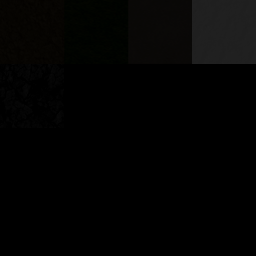
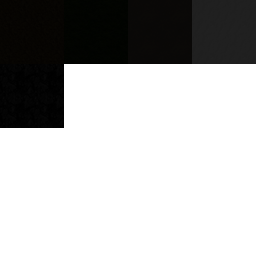
Разрешил проблему с границами между тайлами

diff --git a/client/src/app/services/three.js/terrain.service.ts b/client/src/app/services/three.js/terrain.service.ts
@@ -1,8 +1,8 @@
 import { CreateArray, VoidFunctionVar } from "@_datas/app";
 import { MapTerrains, TexturePaths } from "@_datas/dream-map";
 import { DreamMapTerrainName } from "@_datas/dream-map-objects";
-import { DreamCeilParts, DreamCeilSize, DreamDefHeight, DreamMapDefaultTextureQuality, DreamMapSize, DreamMaxHeight, DreamOutsideSize, DreamTerrain } from "@_datas/dream-map-settings";
-import { LightMapTextureName, MapTextureName, MaskNames, MaskTextureNamePreffix, NormalMapTextureName, TerrainColorDepth, TerrainDefines, TerrainFragmentShader, TerrainRepeat, TerrainUniforms, TerrainVertexShader } from "@_datas/three.js/shaders/terrain.shader";
+import { DreamCeilParts, DreamCeilSize, DreamDefHeight, DreamMapSize, DreamMaxHeight, DreamOutsideSize, DreamTerrain } from "@_datas/dream-map-settings";
+import { MapTextureName, MaskNames, MaskTextureNamePreffix, TerrainColorDepth, TerrainDefines, TerrainFragmentShader, TerrainRepeat, TerrainUniforms, TerrainVertexShader } from "@_datas/three.js/shaders/terrain.shader";
 import { AngleToRad, CheckInRange, MathRound } from "@_helpers/math";
 import { ArrayFind, ArrayForEach, ArraySome, ForCycle, MapCycle, XYForEach, XYMapEach } from "@_helpers/objects";
 import { CustomObject, CustomObjectKey } from "@_models/app";
@@ -11,8 +11,8 @@ import { ImageExtension } from "@_models/screen";
 import { Uniforms } from "@_models/three.js/base";
 import { ScreenService } from "@_services/screen.service";
 import { Injectable, OnDestroy } from "@angular/core";
-import { Observable, Subject, filter, forkJoin, map, mergeMap, of, takeUntil, tap, timer } from "rxjs";
-import { BackSide, CanvasTexture, DataTexture, Float32BufferAttribute, FrontSide, LinearEncoding, LinearFilter, Mesh, NearestFilter, NearestMipmapLinearFilter, NearestMipmapNearestFilter, PlaneGeometry, RGBFormat, RepeatWrapping, ShaderMaterial, Texture, TextureLoader, UniformsUtils } from "three";
+import { Observable, Subject, forkJoin, map, mergeMap, of, takeUntil, tap } from "rxjs";
+import { BackSide, CanvasTexture, DataTexture, Float32BufferAttribute, FrontSide, LinearEncoding, LinearFilter, LinearMipmapLinearFilter, Mesh, MirroredRepeatWrapping, PlaneGeometry, RGBFormat, ShaderMaterial, Texture, TextureLoader, UniformsUtils } from "three";
 
 
 
@@ -122,74 +122,21 @@ export class DreamMapTerrainService implements OnDestroy {
   }
 
   // Загрузить текстуру
-  private loadTexture(src: string, ext: ImageExtension, name: string, createMipmaps: boolean = false): Texture {
-    const getSize = (quality: number) => {
-      quality = CheckInRange(quality, 11, 0);
-      // Вернуть актуальный размер
-      return Math.pow(2, quality);
-    };
-    const currentQuality: number = DreamMapDefaultTextureQuality;
-    const blankCanvas: HTMLCanvasElement = document.createElement("canvas", {});
-    const texture: CanvasTexture = new CanvasTexture(blankCanvas);
-    // Свойства полотна
-    blankCanvas.width = 1;
-    blankCanvas.height = 1;
-    // Свойства текстуры
-    timer(1)
-      .pipe(
-        takeUntil(this.destroyed$),
-        filter(() => !!this.material && !!this.material?.uniforms[name])
-      )
-      .subscribe(() => {
-        texture.format = RGBFormat;
-        texture.magFilter = NearestFilter;
-        texture.encoding = LinearEncoding;
-        texture.wrapS = RepeatWrapping;
-        texture.wrapT = RepeatWrapping;
-        texture.anisotropy = 0;
-        // Mipmaps
-        if (createMipmaps && currentQuality >= 0) {
-          forkJoin(MapCycle(currentQuality + 1, quality => {
-            const size: number = getSize(quality);
-            // Загрузка картинки
-            return this.screenService.loadImage(src + size + "." + ext).pipe(map(image => ({ size, image })));
-          }, false))
-            .pipe(takeUntil(this.destroyed$))
-            .subscribe(datas => {
-              const mipmaps: HTMLCanvasElement[] = [];
-              // Цикл по MipMaps
-              ArrayForEach(datas, ({ size, image: { image } }) => {
-                const imageCanvas: HTMLCanvasElement = document.createElement("canvas");
-                const context: CanvasRenderingContext2D = imageCanvas.getContext("2d");
-                // Отрисовка текстуры
-                imageCanvas.width = size;
-                imageCanvas.height = size;
-                context.drawImage(image, 0, 0);
-                // Добавить в массив
-                mipmaps.push(imageCanvas);
-              }, true);
-              // Обновить текстуру
-              texture.minFilter = NearestMipmapLinearFilter;
-              texture.generateMipmaps = false;
-              texture.mipmaps = mipmaps;
-              texture.needsUpdate = true;
-              // Обновить
-              this.material.uniforms[name].value = texture;
-              this.material.uniformsNeedUpdate = true;
-            });
-        }
-        // Обычные текстуры
-        else {
-          texture.minFilter = NearestMipmapNearestFilter;
-          texture.generateMipmaps = true;
-          texture.needsUpdate = true;
-          // Обновить
-          this.material.uniforms[name].value = texture;
-          this.material.uniformsNeedUpdate = true;
-        }
-      });
-    // Вернуть текстуру
-    return texture;
+  private loadTexture(src: string, ext: ImageExtension, name: string): Texture {
+    return this.textureLoader.load(src + "." + ext, texture => {
+      texture.format = RGBFormat;
+      texture.magFilter = LinearFilter;
+      texture.minFilter = LinearMipmapLinearFilter;
+      texture.encoding = LinearEncoding;
+      texture.wrapS = MirroredRepeatWrapping;
+      texture.wrapT = MirroredRepeatWrapping;
+      texture.anisotropy = 0;
+      texture.generateMipmaps = true;
+      texture.needsUpdate = true;
+      // Обновить
+      this.material.uniforms[name].value = texture;
+      this.material.uniformsNeedUpdate = true;
+    })
   }
 
   // Шейдер смешивания текстур (Splat Map)
@@ -207,10 +154,10 @@ export class DreamMapTerrainService implements OnDestroy {
     // Текстуры
     const textures: CustomObject<Texture | CanvasTexture> = {
       ...MaskNames.reduce((o, name, k) => ({ ...o, [name]: colorTextures[k] }), {}),
-      [MapTextureName]: this.loadTexture(TexturePaths.face, ImageExtension.png, MapTextureName, true),
-      [NormalMapTextureName]: this.loadTexture(TexturePaths.normal, ImageExtension.png, NormalMapTextureName, true),
+      [MapTextureName]: this.loadTexture(TexturePaths.face, ImageExtension.png, MapTextureName),
+      // [NormalMapTextureName]: this.loadTexture(TexturePaths.normal, ImageExtension.png, NormalMapTextureName, true),
       // [AoMapTextureName]: this.loadTexture(TexturePaths.ao, ImageExtension.png, AoMapTextureName, true),
-      [LightMapTextureName]: this.loadTexture(TexturePaths.light, ImageExtension.png, LightMapTextureName, true)
+      // [LightMapTextureName]: this.loadTexture(TexturePaths.light, ImageExtension.png, LightMapTextureName, true)
     };
     // Значения
     const uniforms: Uniforms = UniformsUtils.merge([TerrainUniforms, {

diff --git a/client/src/app/datas/three.js/shaders/terrain.shader.ts b/client/src/app/datas/three.js/shaders/terrain.shader.ts
@@ -15,10 +15,10 @@ import { ShaderLib, UniformsUtils } from "three";
 const TerrainColorCount: number = 4;
 const MaterialType: keyof typeof ShaderLib = "phong";
 const BaseShader = ShaderLib[MaterialType];
-const TerrainTileSize: number = 512;
-const TerrainTileSpacing: number = 0;
+const TerrainTileSize: number = 1536;
+const TerrainTileSpacing: number = 512;
 const TerrainTileSetSize: number = TerrainTileSize * 4;
-export const TerrainRepeat: number = 1.2;
+export const TerrainRepeat: number = 1;
 export const TerrainColorDepth: number = MapTerrains.filter((t, k) => k / TerrainColorCount === Math.round(k / TerrainColorCount)).length;
 
 // Именованный массив
@@ -94,13 +94,15 @@ export const TerrainFragmentShader: string = `
   }
 
   vec4 getTileTexture (sampler2D texture, vec2 tileCoords, vec2 uv) {
-    vec2 allTiles = floor((tileSetSize / tileSize) + vec2(0.5, 0.5)) - vec2(1, 1);
-    vec2 coords = vec2(tileCoords.x, allTiles.y - tileCoords.y);
     vec2 uvMin = vec2(0., 0.);
     vec2 uvMax = vec2(1., 1.);
-    vec2 tileMaxSize = tileSize - uvMax - (tileSpacing * vec2(2., 2.));
+    vec2 halfVec2 = vec2(.5, .5);
+    vec2 doubleVec2 = vec2(2., 2.);
+    vec2 tileMaxSize = tileSize - (tileSpacing * doubleVec2);
+    vec2 allTiles = floor((tileSetSize / tileSize) + halfVec2) - vec2(1, 1);
+    vec2 coords = vec2(tileCoords.x, allTiles.y - tileCoords.y);
     vec2 tilingUV = fract(uv * mapRepeat);
-    vec2 offset = (tileSize * coords) + tileSpacing + (tileMaxSize * tilingUV);
+    vec2 offset = ((tileSize * coords) + tileSpacing) + (tileMaxSize * tilingUV);
     vec2 textureUV = fract(vec2LineFunc(uvMax, uvMin, offset, uvMin, tileSetSize));
 
     return texture2D(texture, textureUV);
@@ -231,8 +233,8 @@ export const TerrainDefines: CustomObject<boolean> = {
   USE_UV: true,
   USE_MAP: true,
   USE_AOMAP: false,
-  USE_NORMALMAP: true,
-  USE_LIGHTMAP: true,
+  USE_NORMALMAP: false,
+  USE_LIGHTMAP: false,
   USE_BUMPMAP: false,
   USE_DISPLACEMENTMAP: false,
   PHYSICALLY_CORRECT_LIGHTS: false,

diff --git a/client/src/app/datas/three.js/objects/_functions.ts b/client/src/app/datas/three.js/objects/_functions.ts
@@ -7,7 +7,7 @@ import { CoordDto } from "@_models/dream-map";
 import { DreamMapObject, ObjectSetting } from "@_models/dream-map-objects";
 import { Uniforms } from "@_models/three.js/base";
 import { GeometryQuality } from "@_services/three.js/terrain.service";
-import { Clock, Color, Euler, Float32BufferAttribute, Matrix4, MeshPhongMaterial, MeshStandardMaterial, NearestMipmapLinearFilter, PlaneGeometry, RepeatWrapping, Texture, Triangle, Vector3, sRGBEncoding } from "three";
+import { Clock, Color, Euler, Float32BufferAttribute, LinearFilter, LinearMipmapLinearFilter, Matrix4, MeshPhongMaterial, MeshStandardMaterial, PlaneGeometry, RepeatWrapping, Texture, Triangle, Vector3, sRGBEncoding } from "three";
 import { ColorRange, CreateTerrainTrianglesObject, DefTranslate, GetHeightByTerrainObject, GetTextureLoader, MaxHeight, TextureKeys } from "./_models";
 
 
@@ -175,8 +175,8 @@ export const GetTextures = (name: string, path: string, useKeys: (keyof MeshPhon
   .filter(([key]) => !useKeys || useKeys.includes(key))
   .map(([key, type]) => ([key, GetTextureLoader.load("/assets/dream-map/object/" + path + "/" + type + "/" + name, texture => {
     texture.encoding = sRGBEncoding;
-    texture.minFilter = NearestMipmapLinearFilter;
-    texture.magFilter = NearestMipmapLinearFilter;
+    texture.minFilter = LinearMipmapLinearFilter;
+    texture.magFilter = LinearFilter;
     texture.wrapS = RepeatWrapping;
     texture.wrapT = RepeatWrapping;
     // Доп обработка

diff --git a/client/src/app/datas/dream-map.ts b/client/src/app/datas/dream-map.ts
@@ -11,7 +11,7 @@ export const BaseTexturePath: string = "assets/dream-map/terrain/";
 // Путь к файлам текстур местности
 export const TexturePaths: CustomObjectKey<TextureType, string> = {
   icons: BaseTexturePath + "icons/",
-  face: BaseTexturePath + "face/",
+  face: BaseTexturePath + "face",
   normal: BaseTexturePath + "normal/",
   ao: BaseTexturePath + "ao/",
   light: BaseTexturePath + "light/",

diff --git a/client/src/app/datas/dream-map-settings.ts b/client/src/app/datas/dream-map-settings.ts
@@ -64,5 +64,3 @@ export const DefaultDreamMapSettings: DreamMapSettings = {
   detalization: DreamObjectElmsValues.Middle,
   shadowQuality: DreamMapDefaultShadowQuality,
 };
-
-export const DreamMapDefaultTextureQuality: number = 11;
